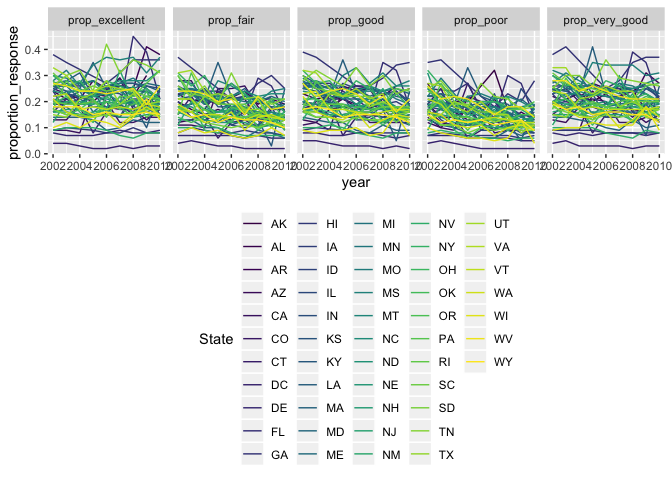
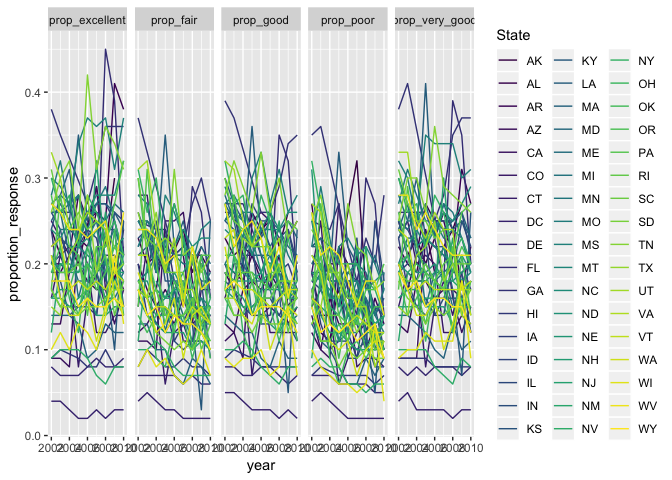
update legend position on Problem 2

diff --git a/p8105_hw3_slb2240.md b/p8105_hw3_slb2240.md
@@ -105,8 +105,7 @@ ggplot(brfss_location_state_prop, aes(x = year, y = proportion_response, color =
   geom_line() +
   facet_grid(~response) +
   scale_color_viridis(name = "State",
-    discrete = TRUE) +
-  theme(legend.position = "bottom")
+    discrete = TRUE)
 ```
 
 ![](p8105_hw3_slb2240_files/figure-markdown_github/unnamed-chunk-5-1.png)
